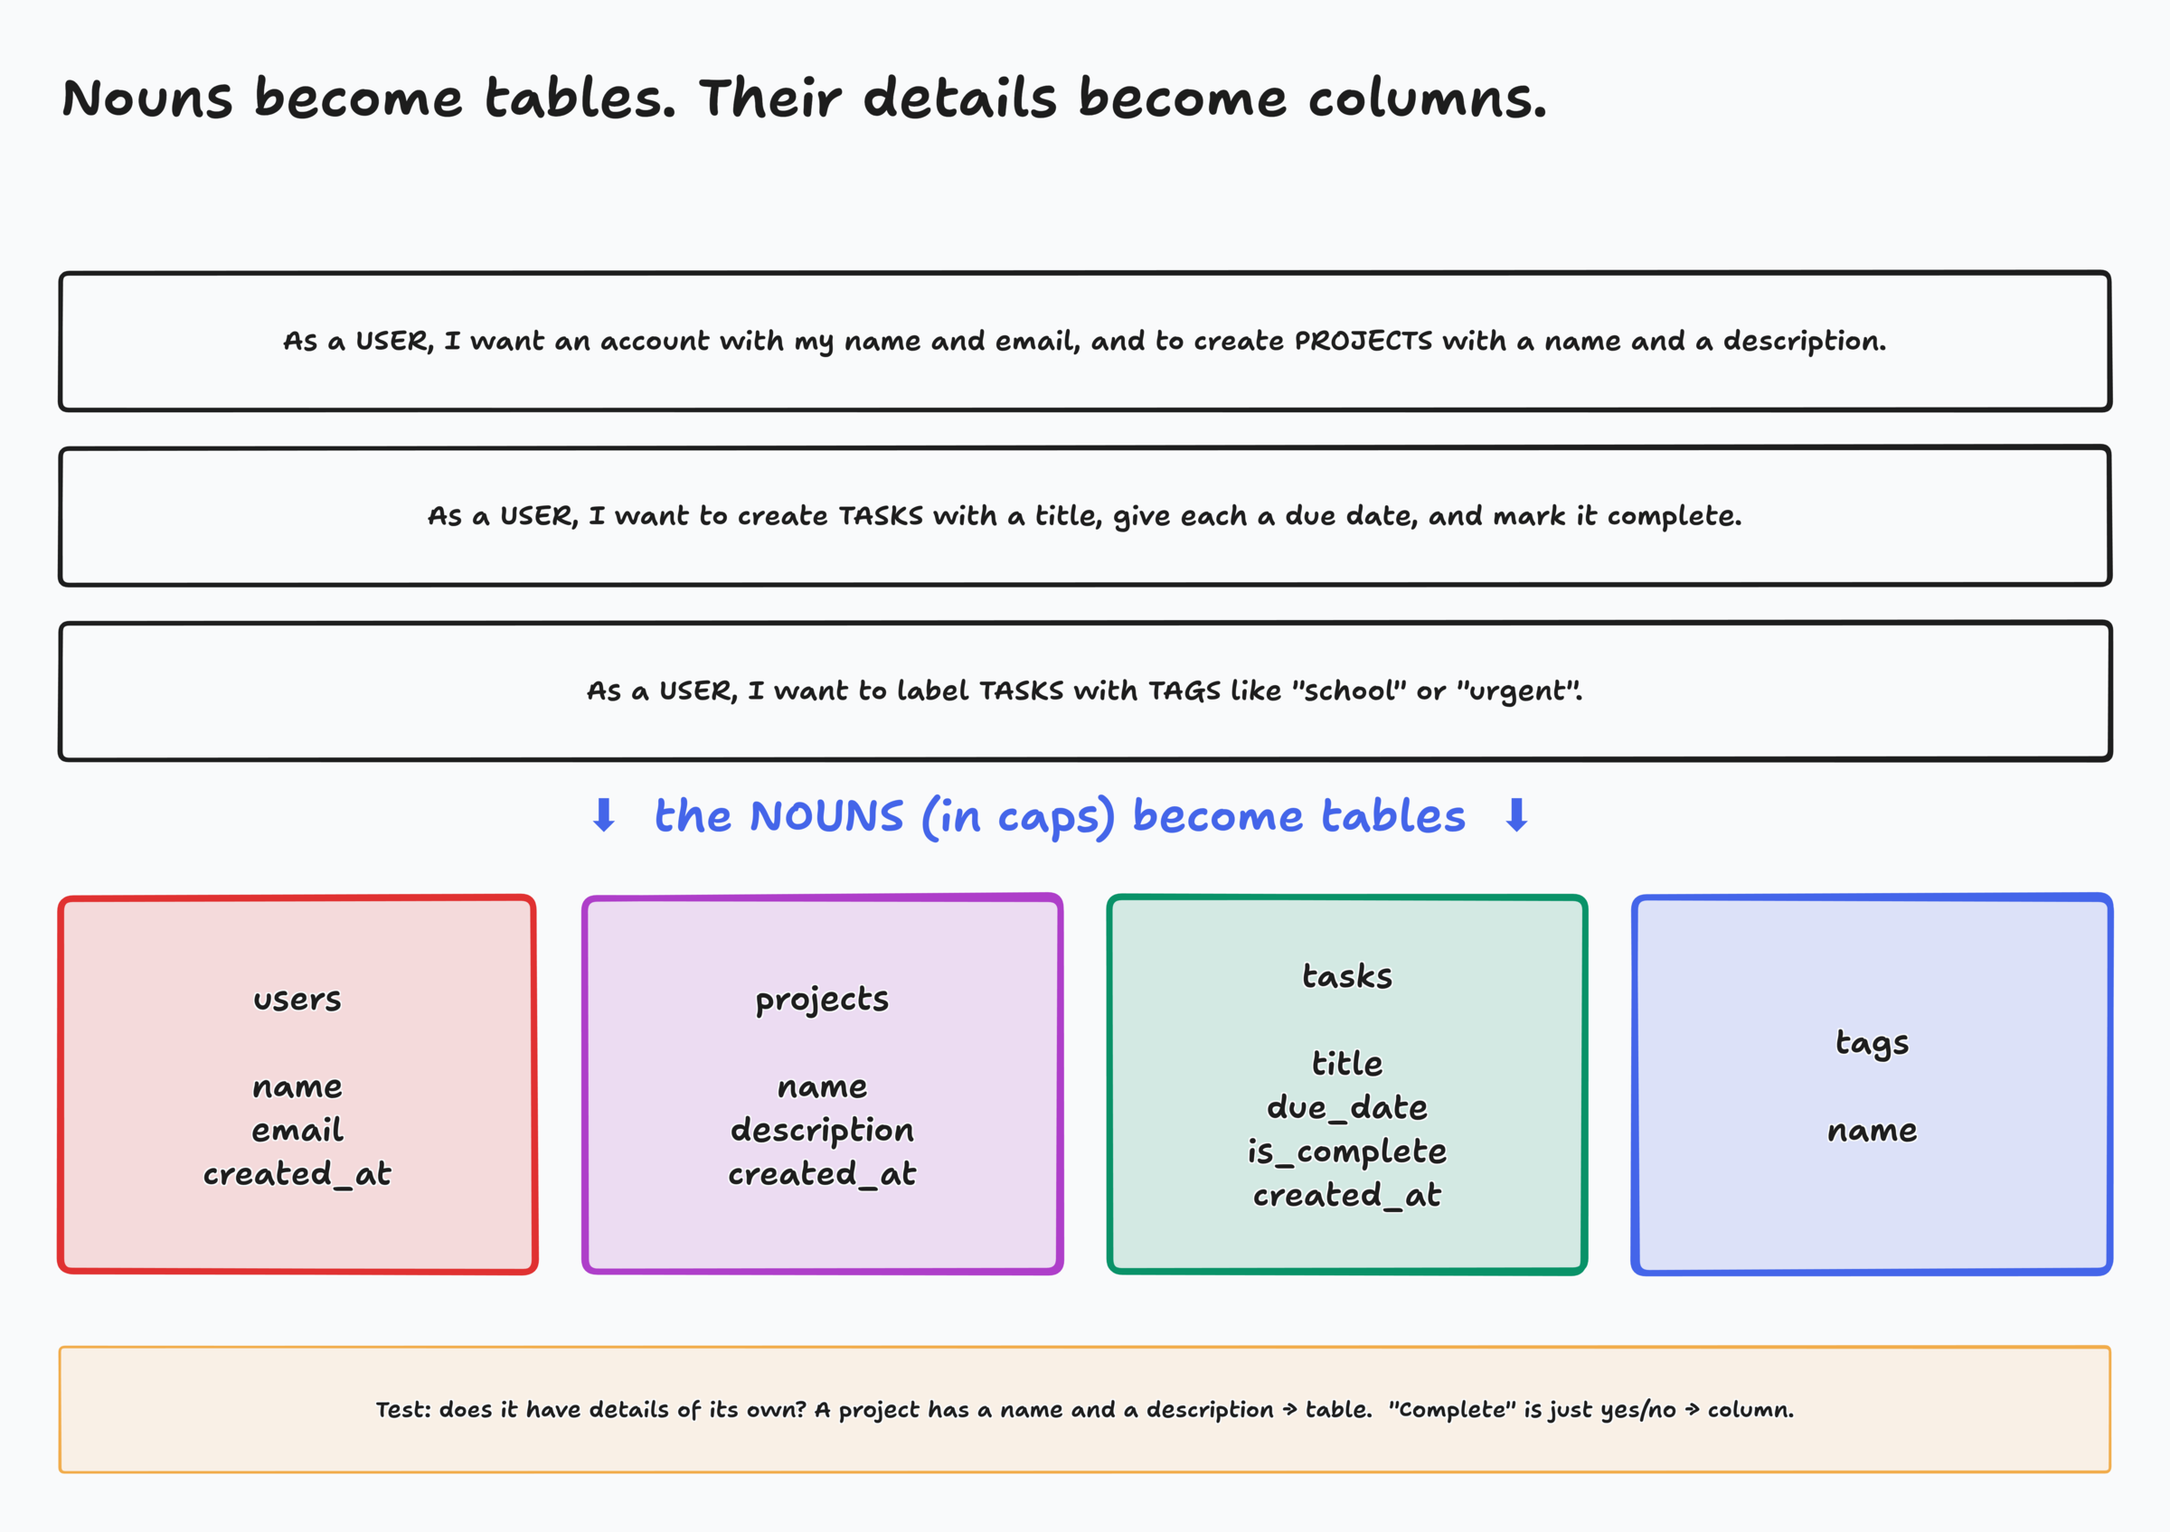
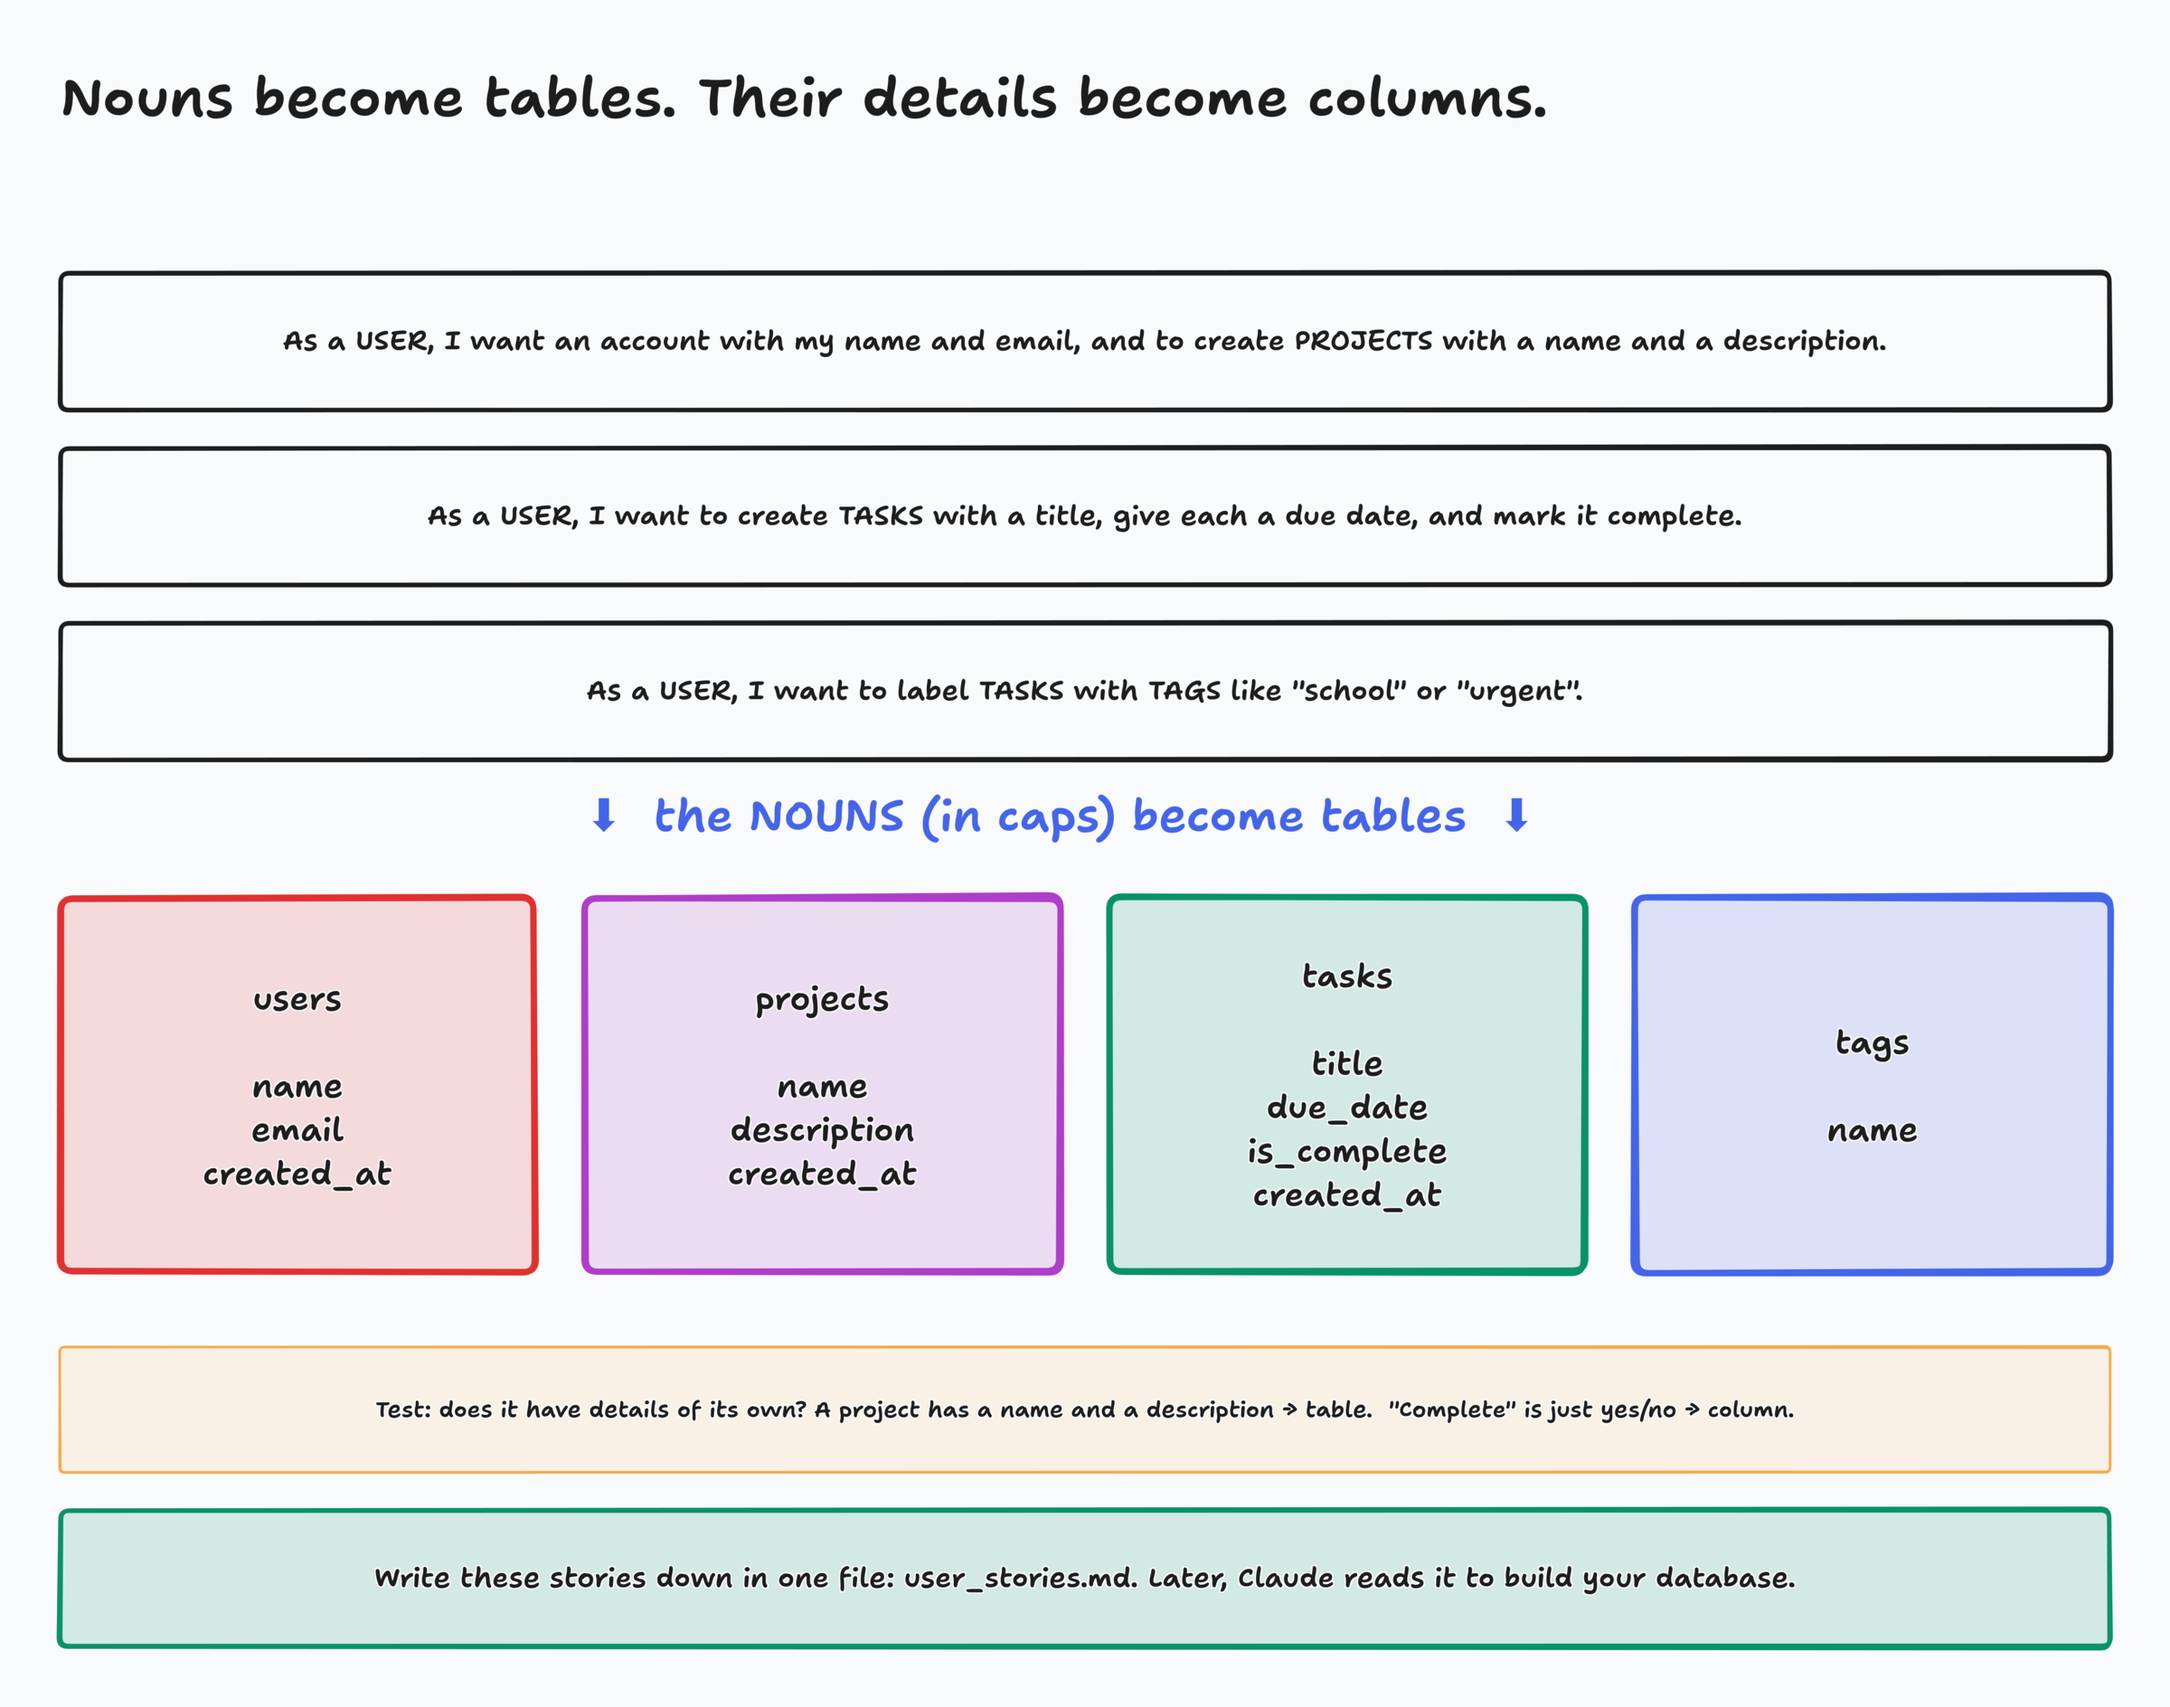
Slide 7: write the stories down in user_stories.md for Claude later

Changed region(s): [[0.0, 0.1534, 1.0, 0.9817], [0.0312, 0.0307, 0.7188, 0.092]]

diff --git a/lecture-1-relational-databases/slides.html b/lecture-1-relational-databases/slides.html
@@ -106,13 +106,14 @@ WHERE is_complete = false;
 
 <!-- ============ FROM STORIES TO TABLES (9–18) ============ -->
 <section class="slide diagram" data-seg="Stories → tables" data-at="9">
-  <img src="../diagrams/DB1-02-nouns-to-tables.png" alt="User stories with the nouns in capitals; each noun becomes a table and its details become columns">
+  <img src="../diagrams/DB1-02-nouns-to-tables.png" alt="User stories with the nouns in capitals; each noun becomes a table and its details become columns. Write the stories down in user_stories.md: Claude reads it later to build the database.">
   <div class="src">diagrams/DB1-02-nouns-to-tables.tldr</div>
   <aside class="notes">
     <p>"You already wrote user stories for your app. They're the start of your database too." Read the stories, point at the nouns in caps: USER, PROJECT, TASK, TAG. Each becomes a table.</p>
     <p><b>Show where they came from (30 sec).</b> Open Ticked's <code>app_outline/pages/</code> (one <code>user_story.md</code> per page, from the SPA lectures) next to <code>demo-kit/user_stories.md</code>. "I went through the page stories and pulled out one list: just the things the app has to <i>remember</i>. One line each. I added one the pages didn't have: an account. That's <code>user_stories.md</code>, and it's your homework too."</p>
     <p>Then the details: a task has a title, a due date, a done flag, a created time. Those become columns.</p>
     <p>USER is a noun too: it becomes a <b>users</b> table. Ticked has no login screen yet (that's a future lecture), but the database is ready for it: every project and task will know who it belongs to.</p>
+    <p><b>Point at the green box at the bottom:</b> "When we do this, we write the stories down, one per line, in a file called <code>user_stories.md</code>. That file isn't just for us. Next lecture we hand it to our Claude agents, along with the diagram we're about to draw, and Claude builds the database from them. Clear stories in, a clear database out."</p>
     <p>"No computer needed. Careful reading and clear thinking."</p>
   </aside>
 </section>
